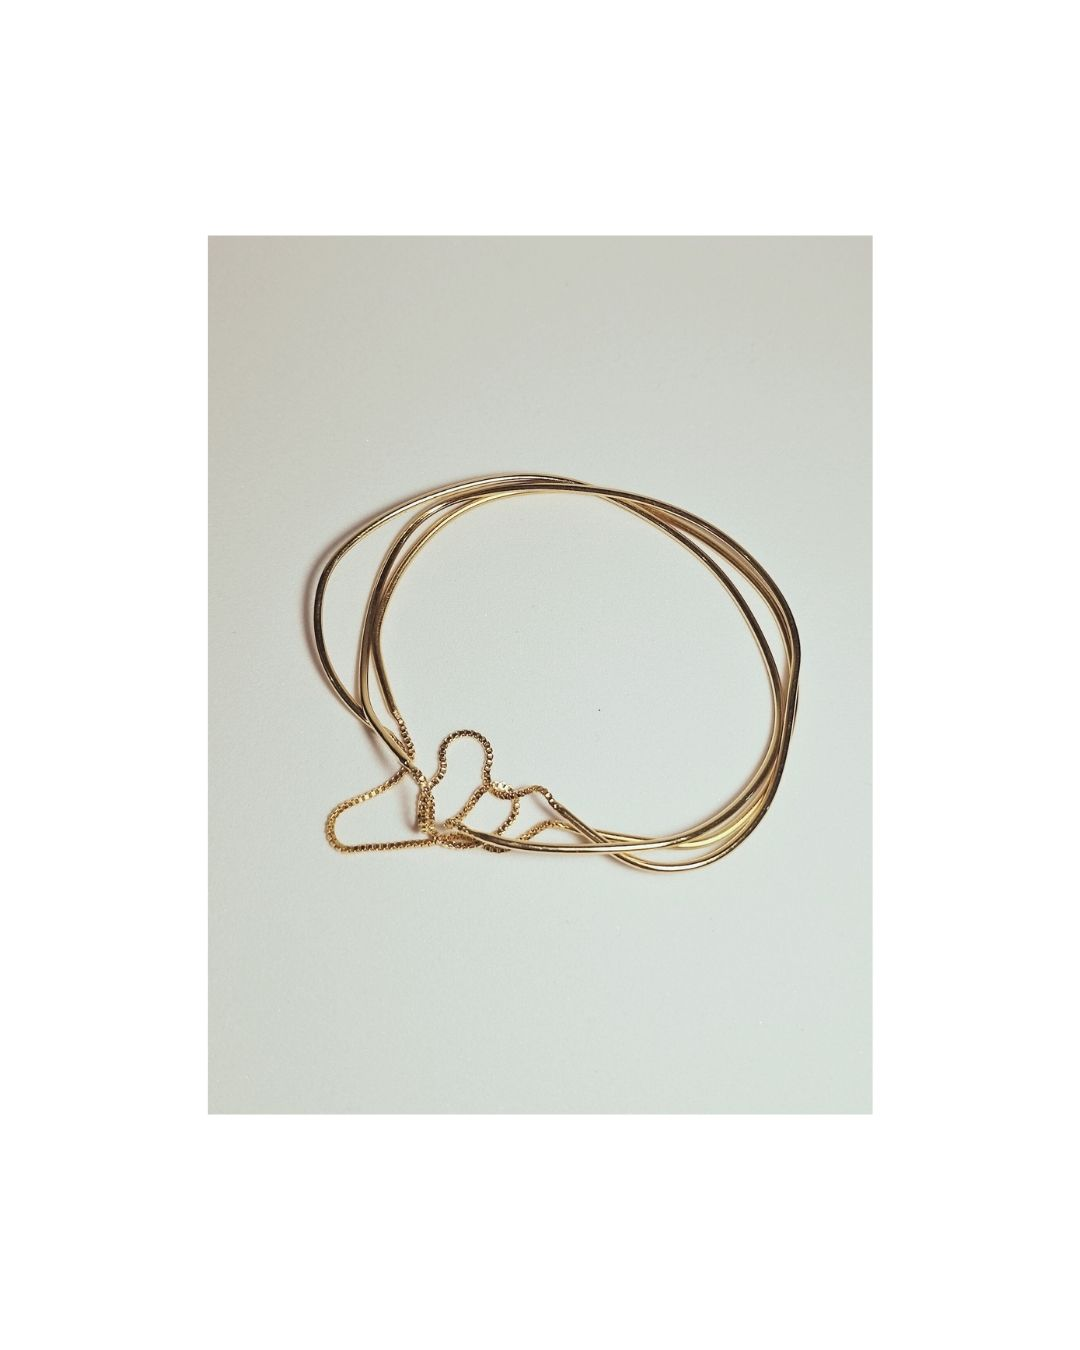
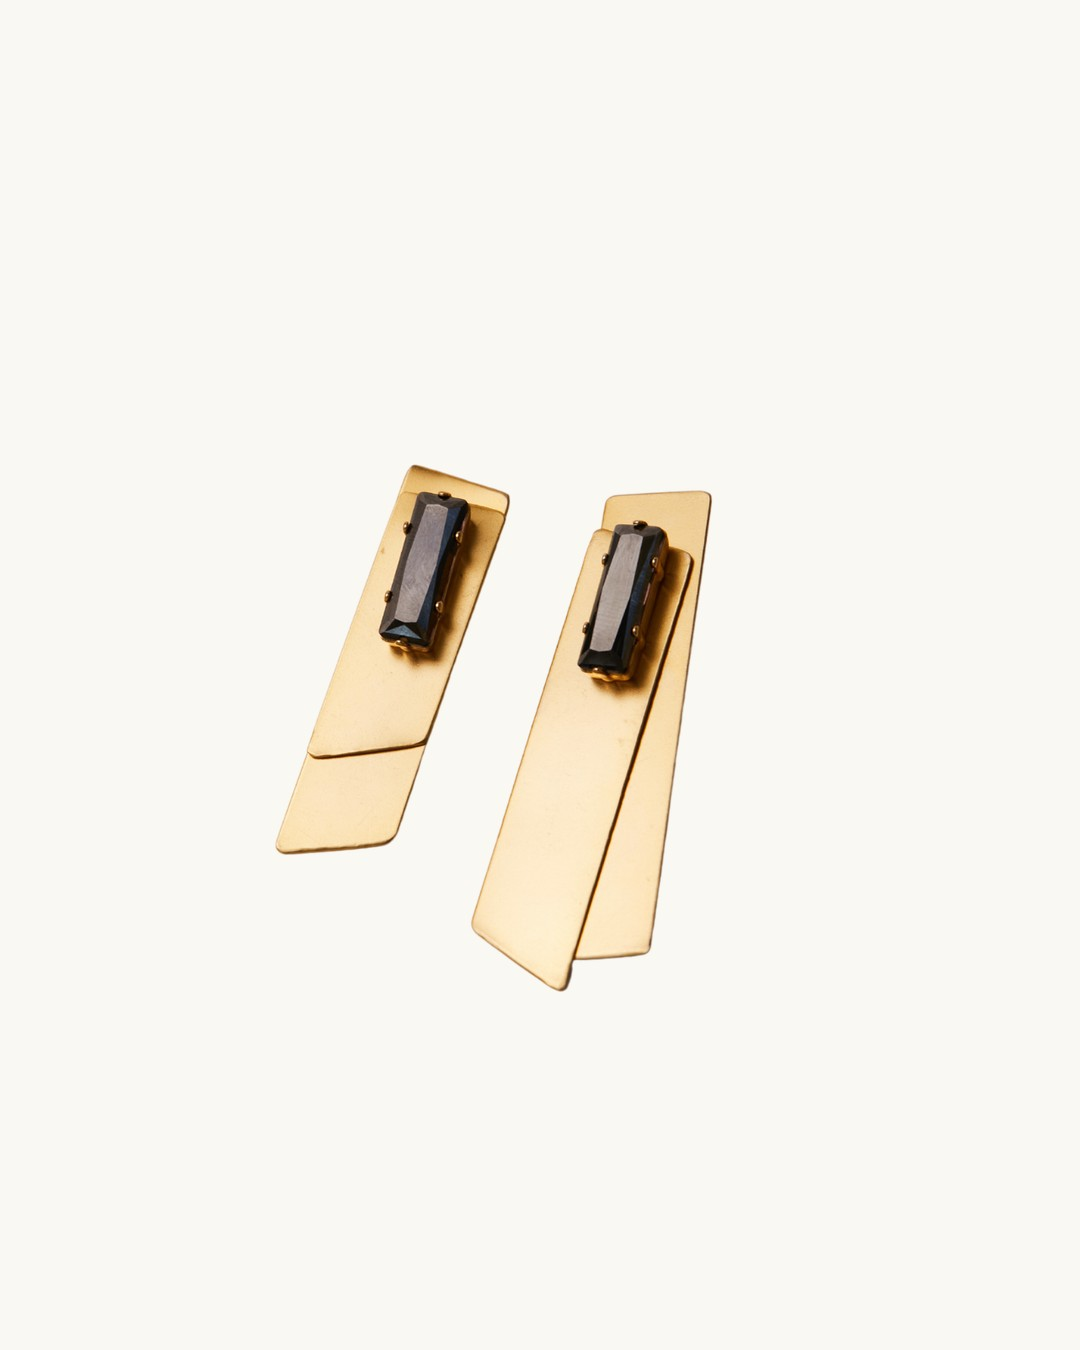
הוורסטילית: החלפת תמונה לעגילי PAULA MODULATE (מודולרי אמיתי)

diff --git a/collections.html b/collections.html
@@ -59,10 +59,10 @@
   </div>
 
   <div class="card">
-    <div class="row"><span class="form">רך</span><span class="name">הוורסטילית</span></div>
+    <div class="row"><span class="form">מודול</span><span class="name">הוורסטילית</span></div>
     <div class="move">גמישות · רכות · מודולארי</div>
-    <img src="assets/collections/versatile.jpg" alt="הוורסטילית">
-    <div class="why">קווים גמישים שנשזרים ומתחברים.</div>
+    <img src="assets/collections/versatile.jpg" alt="הוורסטילית — PAULA">
+    <div class="why">עגילי PAULA — פסי זהב שמתחברים ומתפרקים.</div>
   </div>
 
   <div class="card">